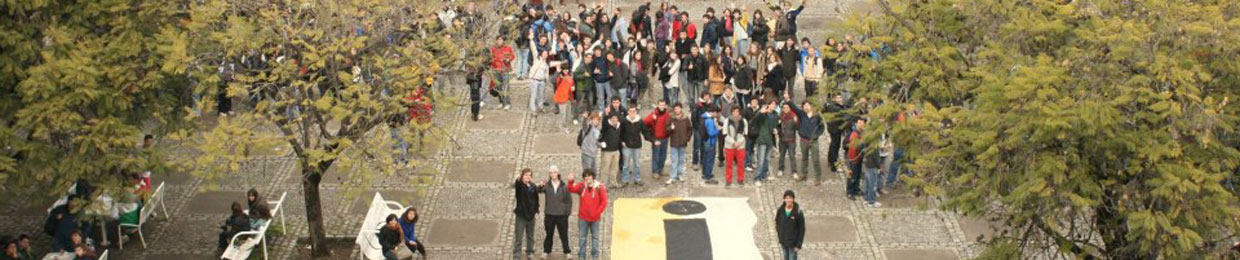
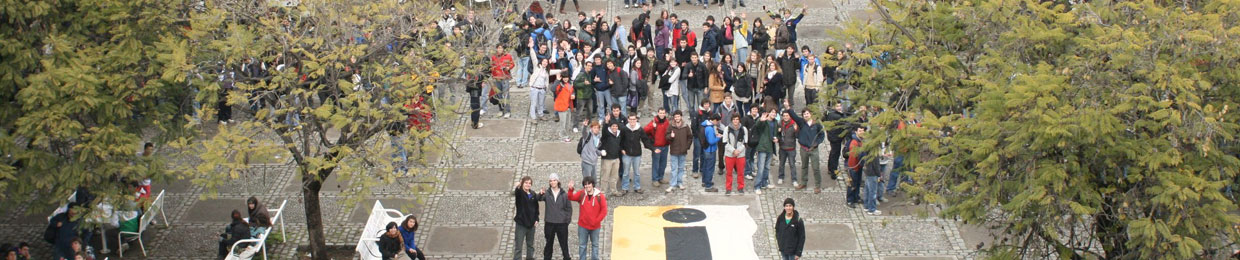
Mejorada calidad del header. Modificado formato sidebar calendario.

diff --git a/app/assets/stylesheets/application/sidebar.css.scss b/app/assets/stylesheets/application/sidebar.css.scss
@@ -69,13 +69,13 @@
 
 #actividades .Xm .dia .actividades .actividad .tipo
 {
-  height:20px;
-  width:20px;
+  height:10px;
+  width:10px;
   background-color: white;
   border: 1px solid black;
   float:left;
   overflow:hidden;
-  margin-right:5px;
+  margin: 4px 10px 0 6px;
 }
 
 #actividades .Xm .dia .actividades .actividad #tipo1

diff --git a/app/controllers/modulos_controller.rb b/app/controllers/modulos_controller.rb
@@ -57,7 +57,7 @@ class ModulosController < ApplicationController
   end
 
   def portales
-
+    @title = "Portales"
   end
 
   def servicios
